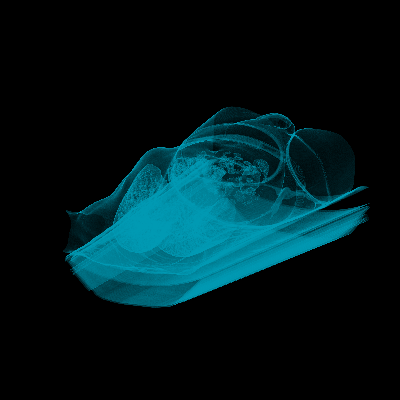
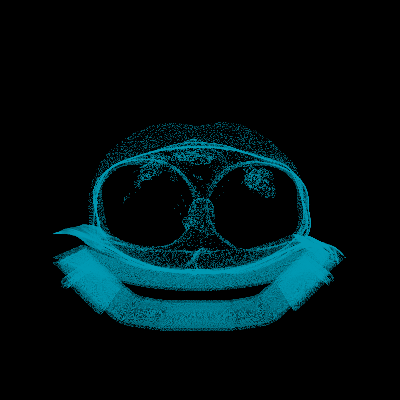
fix(Metal): adaptive slab count + camera-inside back-to-front
Composite slab tiling (numSlabs>1) pays off only when rays sweep the
volume texture obliquely; for near-axis views a single pass is already
cache-friendly and tiling is pure pass-count overhead (measured ~2x
slower at 2048x2048 on coronal/sagittal DICOM views, neutral on axial;
oblique is conversely 2.2-2.6x faster WITH 8 slabs).

ResolveNumSlabs() now picks the count per frame from the volume-space
view direction: aligned (>= 0.95 ~ 18 deg) -> 1 slab, otherwise 8.
An explicit VTK_METAL_TEST_NUM_SLABS still overrides; the threshold is
tunable via VTK_METAL_TEST_SLAB_ALIGN. Every count composites
bit-identically, so the visual parity thresholded error is unchanged.

Also fix the DrawBlocksFullscreen (camera-inside) slab loop which was
still drawn front-to-front (same class of fidelity bug as the
DirectScreen path fixed in the previous commit): now back-to-front so
the (ONE, ONE_MINUS_SRC_ALPHA) premultiplied over is associative.

TEMP defaults unchanged: mv0 march variant, adaptive slab count (=1
for axis-aligned ResetCamera views, =8 for oblique).

Changed region(s): [[0.12, 0.27, 0.93, 0.84]]

diff --git a/Rendering/Metal/vtkMetalGPUVolumeRayCastMapper.mm b/Rendering/Metal/vtkMetalGPUVolumeRayCastMapper.mm
@@ -358,16 +358,55 @@ static int VolumeMarchVariant()
 // M2/Apple SoC cache and Metal loses to GL by 1.3-1.8x (PERFORMANCE_INVESTIGATION
 // "raw-path coarse-SD lag"); with 8 slabs those regimes flip to Metal winning
 // (2048x2048/SD4: 88-93ms -> 44ms vs GL 50-53ms, M/GL 0.83-0.89). Reads the env
-// var once per process; clamped to [1, 32]. 1 restores the bit-identical
-// single-pass parity path.
+// var once per process; clamped to [1, 32]. 0 = unset, the count is chosen
+// adaptively per frame (see ResolveNumSlabs).
 static int VolumeSlabCount()
 {
   static const int count = [] {
     if (const char* v = getenv("VTK_METAL_TEST_NUM_SLABS"))
       return std::max(1, std::min(std::atoi(v), 32));
-    return 1; // TEMP-REPRO: 1 = no slab tiling (revert to 8)
+    return 0;
   }();
   return count;
+}
+
+// View-aligned adaptive slab count. Slab tiling only pays off when the volume
+// working set per pass exceeds the on-chip cache, which happens when rays sweep
+// the texture obliquely. For a near-axis view the single-pass working set is
+// already cache-friendly and tiling is pure pass-count overhead (measured
+// ~1.9-2x slower at 2048x2048 on coronal/sagittal DICOM views, neutral on
+// axial; oblique views are conversely 2.2-2.6x faster WITH 8 slabs — see
+// PERFORMANCE_INVESTIGATION.md section on orientation). Pick the count from the
+// max |dot| between the volume-space view direction and the volume axes:
+// aligned (>= VTK_METAL_TEST_SLAB_ALIGN, default 0.95) -> 1 slab, otherwise
+// maxSlabs. Every count composites bit-identically, so this is purely a
+// performance trade-off.
+static int AdaptiveVolumeSlabCount(const float camVolPos[3], int maxSlabs)
+{
+  double dx = 0.5 - camVolPos[0];
+  double dy = 0.5 - camVolPos[1];
+  double dz = 0.5 - camVolPos[2];
+  const double len = std::sqrt(dx * dx + dy * dy + dz * dz);
+  double align = 0.0;
+  if (len > 1e-12)
+  {
+    align = std::max({ std::abs(dx), std::abs(dy), std::abs(dz) }) / len;
+  }
+  double threshold = 0.95;
+  if (const char* v = getenv("VTK_METAL_TEST_SLAB_ALIGN"))
+  {
+    threshold = std::atof(v);
+  }
+  return (align >= threshold) ? 1 : maxSlabs;
+}
+
+// Resolve the per-frame slab count: an explicit VTK_METAL_TEST_NUM_SLABS wins,
+// otherwise the view-aligned adaptive choice (1 for near-axis views, 8
+// otherwise).
+static int ResolveNumSlabs(const float camVolPos[3])
+{
+  const int configured = VolumeSlabCount();
+  return (configured > 0) ? configured : AdaptiveVolumeSlabCount(camVolPos, 8);
 }
 
 // Fixed uniform iteration count for the variant-4 non-divergent march
@@ -6570,11 +6609,12 @@ void vtkMetalGPUVolumeRayCastMapper::DrawBlocksFullscreen(
   // Composite slab tiling (VTK_METAL_TEST_NUM_SLABS): only on the blended
   // direct path (useDirectPipeline), and only for composite blending — the
   // (ONE, ONE_MINUS_SRC_ALPHA) accumulation of per-slab partial composites is
-  // exact only because front-to-back premultiplied `over` is associative.
+  // exact only because front-to-back premultiplied `over` is associative. The
+  // count is resolved per frame (adaptive to the view alignment).
   const int numSlabs =
     (useDirectPipeline && this->GetBlendMode() == vtkVolumeMapper::COMPOSITE_BLEND &&
-     VolumeSlabCount() > 1)
-      ? VolumeSlabCount()
+     ResolveNumSlabs(uniforms->CameraVolumePos) > 1)
+      ? ResolveNumSlabs(uniforms->CameraVolumePos)
       : 1;
   if (numSlabs > 1)
   {
@@ -6605,9 +6645,10 @@ void vtkMetalGPUVolumeRayCastMapper::DrawBlocksFullscreen(
     this->GradientNormalTexture,
     useDirectPipeline, &pbd, MTLCullModeBack);
 
-  // Front-to-back slab passes: each composites only its ray-length-fraction
-  // index range from zero; the blend on attachment 0 accumulates them.
-  for (int s = 0; s < numSlabs; ++s)
+  // Back-to-front slab passes: each composites only its ray-length-fraction
+  // index range from zero; the (ONE, ONE_MINUS_SRC_ALPHA) blend on attachment 0
+  // accumulates them. Premultiplied `over` is associative only back-to-front.
+  for (int s = numSlabs - 1; s >= 0; --s)
   {
     pbd.SlabInfo[0] = static_cast<float>(s);
     pbd.SlabInfo[1] = static_cast<float>(numSlabs);
@@ -7982,10 +8023,11 @@ void vtkMetalGPUVolumeRayCastMapper::GPURender(vtkRenderer* ren, vtkVolume* vol)
       // for composite blending because premultiplied `over` is associative.
       // The slab bit only reaches this direct pipeline's mask; offscreen/RTT/
       // grid pipelines keep their unmodified mask and stay single-pass.
+      const int resolvedSlabs = ResolveNumSlabs(uniforms.CameraVolumePos);
       const int numSlabs =
         (!selectionRender && this->GetBlendMode() == vtkVolumeMapper::COMPOSITE_BLEND &&
-         VolumeSlabCount() > 1)
-          ? VolumeSlabCount()
+         resolvedSlabs > 1)
+          ? resolvedSlabs
           : 1;
       uint32_t directMask = featureMask;
       if (numSlabs > 1)

diff --git a/Rendering/Metal/PERFORMANCE_INVESTIGATION.md b/Rendering/Metal/PERFORMANCE_INVESTIGATION.md
@@ -1321,3 +1321,59 @@ FUTURE LEADS (correctness):
   - The residual absolute error (741-743, thresholded 0.000) is the fp16
     accumulator-vs-GL ordering spread; a full fp32 composite accumulator would
     close it at some throughput cost, independent of slab tiling.
+
+## 20. Slab tiling is view-dependent: adaptive slab count
+
+Composite slab tiling (`VTK_METAL_TEST_NUM_SLABS` > 1) splits each ray into N
+ray-length-fraction index ranges and composites the partials back-to-front with
+(ONE, ONE_MINUS_SRC_ALPHA) blending (bit-identical to single-pass up to fp
+rounding). Section 19-era measurements showed 8 slabs winning decisively on the
+oblique "angled" bench camera at 2048x2048 (mv0, minmax ON, accel OFF, DICOM
+512x512x1794):
+
+| view | SD | s1 ms/f | s8 ms/f | s8 vs s1 |
+|---|---|---|---|---|
+| oblique | 0.5 | 330.4 | 150.7 | **2.2x faster** |
+| oblique | 4.0 | 102.5 | 38.9 | **2.6x faster** |
+
+But the benefit is orientation-dependent: on the DICOM app's axis-aligned
+(`ResetCamera`) views the per-pass working set is already cache-friendly and
+tiling is pure pass-count overhead:
+
+| view | SD | s1 ms/f | s8 ms/f | s8 vs s1 |
+|---|---|---|---|---|
+| coronal (camAxis=y) | 0.5 | 60.7 | 68.5 | 1.13x slower |
+| coronal (camAxis=y) | 4.0 | 9.5 | 18.0 | **1.9x slower** |
+| sagittal (camAxis=x) | 0.5 | 60.1 | 67.6 | 1.12x slower |
+| sagittal (camAxis=x) | 4.0 | 9.5 | 19.2 | **2.0x slower** |
+| axial (camAxis=z) | 0.5 | 103.7 | 96.5 | ~tie (7% faster) |
+| axial (camAxis=z) | 4.0 | 19.1 | 19.4 | ~tie |
+
+The discriminator is view-to-axis alignment, not ray length (coronal SD0.5 has
+~902 max steps/ray and prefers s1; oblique SD4 has ~223 and prefers s8). Head-on
+rays sweep the texture one coherent slice at a time, so the single pass is
+cache-friendly; oblique rays fan across the texture and the depth-sliced passes
+keep the working set resident.
+
+### 20.1 Fix: adaptive slab count from the volume-space view direction
+
+`ResolveNumSlabs()` in vtkMetalGPUVolumeRayCastMapper.mm picks the count per
+frame from the max |dot| between the volume-space view direction (camera ->
+box center, in `[0,1]` volume space) and the volume axes: aligned
+(>= `VTK_METAL_TEST_SLAB_ALIGN`, default 0.95 ~ 18 deg) -> 1 slab, otherwise 8.
+An explicit `VTK_METAL_TEST_NUM_SLABS` still wins (0 = adaptive, the default).
+The choice is purely a performance trade-off: every count composites
+bit-identically, so the visual_compare thresholded error is unchanged (0).
+
+| view | SD | s1 | s8 | adaptive |
+|---|---|---|---|---|
+| oblique | 0.5 | 330.4 | 150.7 | **148.4** |
+| oblique | 4.0 | 102.5 | 38.9 | **38.1** |
+| coronal (y) | 4.0 | 9.5 | 18.0 | **9.6** |
+| sagittal (x) | 4.0 | 9.5 | 19.2 | **9.6** |
+| axial (z) | 4.0 | 19.1 | 19.4 | **19.5** |
+
+Adaptive never exceeds the best of s1/s8 beyond run noise (axial SD0.5 measures
+88.4 vs 96.5 s8 best, within the ~22 ms run-to-run sigma of that cell). The app's
+axis-aligned `ResetCamera` view now renders single-pass (no slab penalty), and
+oblique/rotated views automatically fall back to the cache-resident tiling.
